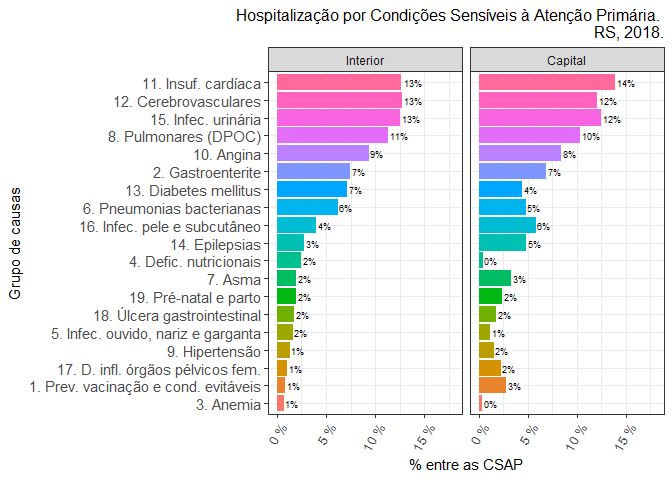
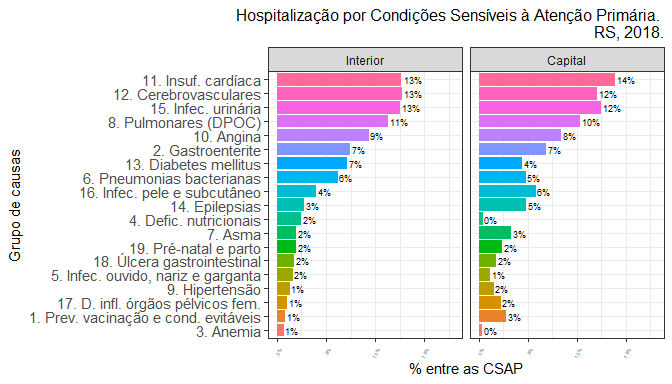
Atualiza o Readme

diff --git a/README.md b/README.md
@@ -3,7 +3,7 @@ Primária</font>
 ================
 Fúlvio Borges Nedel
 
-Atualizado em 22 de abril de 2024
+Atualizado em 12 de maio de 2024
 
 - [Apresentação](#apresentação)
 - [Justificativa](#justificativa)
@@ -84,26 +84,24 @@ tese<sup>[5](#ref-NedelTese)</sup>) que automatize esse trabalho.
 
 O pacote `csapAIH` pode ser instalado no **R** de diferentes maneiras:
 
-- baixando o arquivo em de instalação no
+- baixando o arquivo de instalação no
   [SourceForge](https://sourceforge.net/projects/csapaih/) e depois
-  instalando no R, com a IDE de preferência ou com o comando
-  `install.packages("csapAIH_<versão>.tar.gz")` ou
-  `install.packages("csapAIH_<versão>.zip")`;
+  instalando, com a IDE de preferência ou com o comando
+  `install.packages("csapAIH_<versão>.tar.gz")` (em Linux ou Mac) ou
+  `install.packages("csapAIH_<versão>.zip")` (em Windows);
 
-- com a função `install.packages()` sobre os arquivos de instalação no
-  [SourceForge](https://sourceforge.net/projects/csapaih/):
+- com a função `install.packages()` sobre o arquivo tar.gz no
+  [SourceForge](https://sourceforge.net/projects/csapaih/) [^1]:
 
 ``` r
-#  arquivos .tar.gz
-install.packages("https://sourceforge.net/projects/csapaih/files/<versão>.tar.gz/download", type = "source", repos = NULL) 
-
-# arquivos .zip
-install.packages("https://sourceforge.net/projects/csapaih/files/<versão>.zip/download", type = "source", repos = NULL) 
+install.packages("https://sourceforge.net/projects/csapaih/files/csapAIH_0.0.4.4.tar.gz/download", type = "source", repos = NULL) 
+Installing package into 'C:/Users/fulvi/AppData/Local/Temp/RtmpMrNE7F/temp_libpath57c04c64472'
+(as 'lib' is unspecified)
 ```
 
 ou
 
-- através do pacote `remotes` sobre os arquivos-fonte do pacote em
+- através do pacote `remotes` sobre os arquivos-fonte da versão em
   desenvolvimento, no [GitHub](https://github.com/fulvionedel/csapAIH):
 
 ``` r
@@ -789,7 +787,7 @@ ICSAP em Cerro Largo, RS, 2021. Taxas por 100.000 hab.
 ### Gráficos
 
 ``` r
-gr <- desenhaCSAP(csap, titulo = "auto", onde = "RS", quando = 2018, limsup = .18)
+gr <- desenhaCSAP(csap, titulo = "auto", onde = "RS", quando = 2018, limsup = .18, x.size = 4)
 gr
 ```
 
@@ -810,11 +808,11 @@ gr + ggplot2::facet_wrap(~ munres == "431490",
                                                            "TRUE" = "Capital")))
 ```
 
-<img src="man/figures/README-unnamed-chunk-27-1.png" width="45%" style="display: block; margin: auto;" /><img src="man/figures/README-unnamed-chunk-27-2.png" width="45%" style="display: block; margin: auto;" />
+<img src="man/figures/README-unnamed-chunk-27-1.png" width="75%" style="display: block; margin: auto;" /><img src="man/figures/README-unnamed-chunk-27-2.png" width="75%" style="display: block; margin: auto;" />
 
 ``` r
  DORS2021 %>% 
-  filter(!is.na(SEXO)) %>% 
+  filter(!is.na(SEXO), !is.na(idade)) %>% 
   desenhaCSAP(x.size = 7, y.size = 8) + 
     ggplot2::facet_grid(SEXO ~ fxetar3)
 ```
@@ -1012,3 +1010,9 @@ stored in DBC (compressed DBF) files \[Internet\]. 2016. Available from:
 </div>
 
 </div>
+
+[^1]: Como informado por [Rafael
+    Barros](https://github.com/fulvionedel/csapAIH/issues/13#top), a
+    instalação pelo arquivo .zip da internet resulta em erro.
+    Estranhamente (pra mim, ao menos), uma vez baixado, o arquivo .zip é
+    instalado sem erro.
